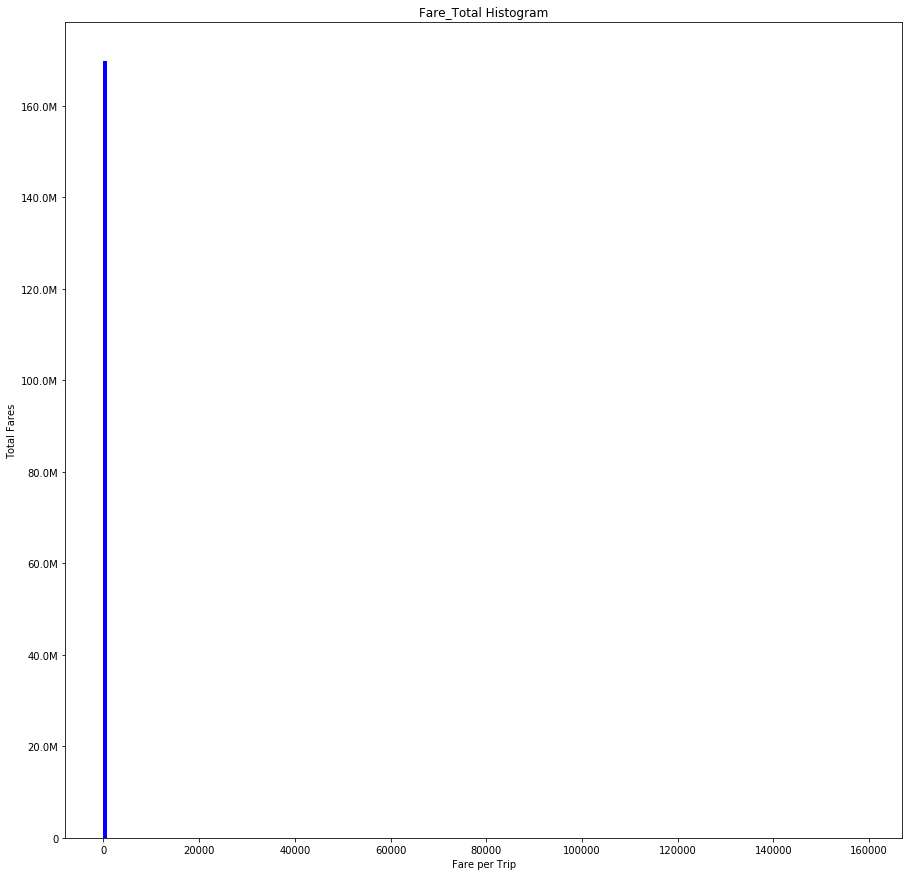
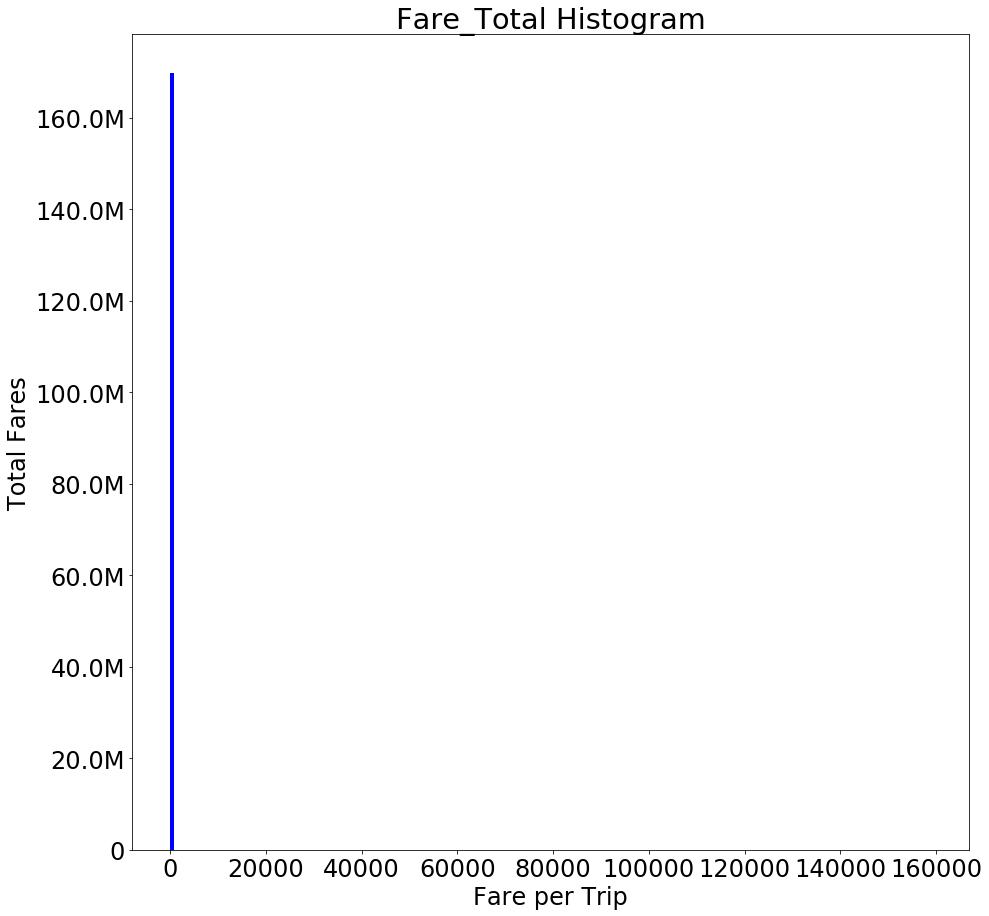
/ increase figures font size

diff --git a/report/taxi-report.tex b/report/taxi-report.tex
@@ -77,7 +77,7 @@ This section covers the manipulations performed to clean up the data in order to
 After visualizing the GPS coordinates on an interactive map, several of the trips were out of the bounds of New York City. They represented about 1.75\% of the trips. As those trips were not related to our objectives, the trips initiated out of NYC were drop in order to keep the clusters' centroids within the city.
 
 \subsection{Invalid fares}
-Some of the trip fares were considered invalid; indeed, their values were either null or equal to zero. They represented about X.XX\% of the records. The fares are used for the second objective, which determines the most profitable spots to set up taxi agencies or pickup spots. Therefore, those records were curated for the second objective.
+Some of the trip fares were considered invalid; indeed, their values were either null or equal to zero. They represented about 1\% of the records. The fares are used for the second objective, which determines the most profitable spots to set up taxi agencies or pickup spots. Therefore, those records were curated for the second objective.
 
 \section{Machine learning}
 The project relied heavily on machine learning for the two objectives. As the first objective is to determine the best locations for building taxi agencies, a good approach is to create customers clusters per region. The centroid of these clusters inherently become the taxi best spots; those clusters are calculated via the K-Means algorithm. The number of clusters required can be hyper-parametered via the value of $k$. The number of clusters depends on how many agencies the taxi company is willing to open. For that purpose, an interval of values have been selected, so the company can review the results and decide their expansion strategy based on what makes more sense.
